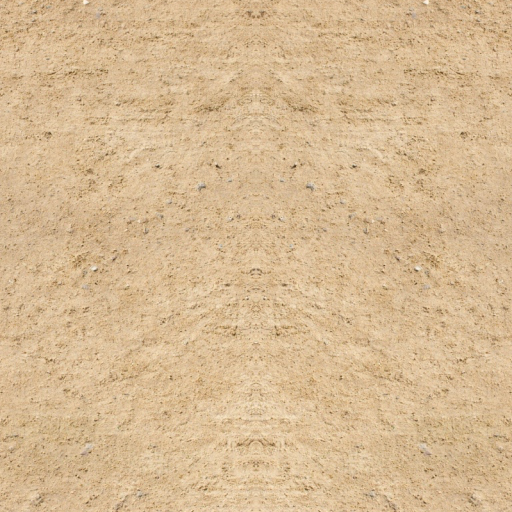
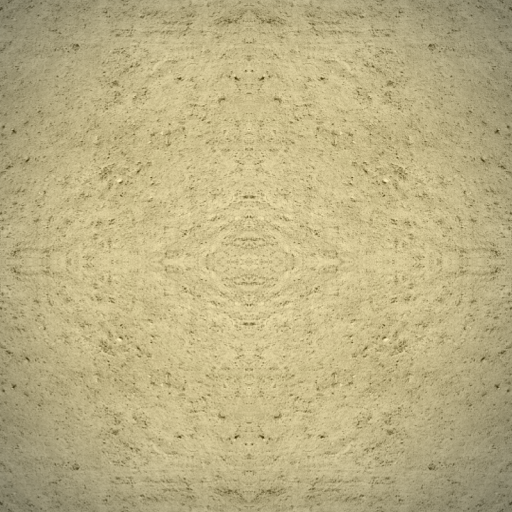
Background and cube texture

diff --git a/Cubic-The-Game/Cubic-The-Game/GameObjects/CubeSegment.cs b/Cubic-The-Game/Cubic-The-Game/GameObjects/CubeSegment.cs
@@ -128,22 +128,22 @@ namespace Cubic_The_Game
             float segWidth = numSquaresAcross* squareWidth/2;
             
             //top Cap
-            VertexPositionColor[] top = new VertexPositionColor[4];
-            top[0] = new VertexPositionColor(new Vector3(segWidth, 0, -segWidth), color);
-            top[1] = new VertexPositionColor(new Vector3(segWidth, 0, segWidth), color);
-            top[2] = new VertexPositionColor(new Vector3(-segWidth, 0, -segWidth), color);
-            top[3] = new VertexPositionColor(new Vector3(-segWidth, 0, segWidth), color);
-            topBuff = new VertexBuffer(device, typeof(VertexPositionColor), top.Length, BufferUsage.WriteOnly);
-            topBuff.SetData<VertexPositionColor>(top);
+            VertexPositionColorTexture[] top = new VertexPositionColorTexture[4];
+            top[0] = new VertexPositionColorTexture(new Vector3(segWidth, 0, -segWidth), color, new Vector2(0,0));
+            top[1] = new VertexPositionColorTexture(new Vector3(segWidth, 0, segWidth), color, new Vector2(1,0));
+            top[2] = new VertexPositionColorTexture(new Vector3(-segWidth, 0, -segWidth), color, new Vector2(0,1));
+            top[3] = new VertexPositionColorTexture(new Vector3(-segWidth, 0, segWidth), color, new Vector2(1,1));
+            topBuff = new VertexBuffer(device, typeof(VertexPositionColorTexture), top.Length, BufferUsage.WriteOnly);
+            topBuff.SetData<VertexPositionColorTexture>(top);
 
             //bottom Cap
-            VertexPositionColor[] bottom = new VertexPositionColor[4];
-            bottom[0] = new VertexPositionColor(new Vector3(segWidth, -squareWidth, segWidth), color);
-            bottom[1] = new VertexPositionColor(new Vector3(segWidth, -squareWidth, -segWidth), color);
-            bottom[2] = new VertexPositionColor(new Vector3(-segWidth, -squareWidth, segWidth), color);
-            bottom[3] = new VertexPositionColor(new Vector3(-segWidth, -squareWidth, -segWidth), color);
-            bottomBuff = new VertexBuffer(device, typeof(VertexPositionColor), bottom.Length, BufferUsage.WriteOnly);
-            bottomBuff.SetData<VertexPositionColor>(bottom);   
+            VertexPositionColorTexture[] bottom = new VertexPositionColorTexture[4];
+            bottom[0] = new VertexPositionColorTexture(new Vector3(segWidth, -squareWidth, segWidth), color, new Vector2(0, 0));
+            bottom[1] = new VertexPositionColorTexture(new Vector3(segWidth, -squareWidth, -segWidth), color, new Vector2(1, 0));
+            bottom[2] = new VertexPositionColorTexture(new Vector3(-segWidth, -squareWidth, segWidth), color, new Vector2(0, 1));
+            bottom[3] = new VertexPositionColorTexture(new Vector3(-segWidth, -squareWidth, -segWidth), color, new Vector2(1, 1));
+            bottomBuff = new VertexBuffer(device, typeof(VertexPositionColorTexture), bottom.Length, BufferUsage.WriteOnly);
+            bottomBuff.SetData<VertexPositionColorTexture>(bottom);   
             
         }
 
@@ -240,6 +240,8 @@ namespace Cubic_The_Game
             //Draw top square
             device.SetVertexBuffer((top) ? topBuff : bottomBuff);
             segmentEffect.DiffuseColor = Color.White.ToVector3();
+            segmentEffect.TextureEnabled = true;
+            segmentEffect.Texture = cubeTex;
 
             //    device.Indices = indexBuff;
             device.RasterizerState = solidRasterizer;
@@ -250,14 +252,14 @@ namespace Cubic_The_Game
                 device.DrawPrimitives(PrimitiveType.TriangleStrip, 0, 2);//+2
             }
 
-            segmentEffect.DiffuseColor = color.ToVector3();
-            device.RasterizerState = wireFrameRasterizer;
-            //   device.RasterizerState.FillMode = FillMode.WireFrame;
-            foreach (EffectPass pass in segmentEffect.CurrentTechnique.Passes)
-            {
-                pass.Apply();
-                device.DrawPrimitives(PrimitiveType.TriangleStrip, 0, 2);//+2
-            }
+            //segmentEffect.DiffuseColor = color.ToVector3();
+            //device.RasterizerState = wireFrameRasterizer;
+            ////   device.RasterizerState.FillMode = FillMode.WireFrame;
+            //foreach (EffectPass pass in segmentEffect.CurrentTechnique.Passes)
+            //{
+            //    pass.Apply();
+            //    device.DrawPrimitives(PrimitiveType.TriangleStrip, 0, 2);//+2
+            //}
             //end top
         }
 

diff --git a/Cubic-The-Game/Cubic-The-Game/GameObjects/MatchPiece.cs b/Cubic-The-Game/Cubic-The-Game/GameObjects/MatchPiece.cs
@@ -22,8 +22,8 @@ namespace Cubic_The_Game
     {
 
         #region constants
-        readonly Color inactiveColor = Color.Black;
-        readonly Color backColor = Color.Gray;
+        readonly Color inactiveColor = new Color(1,14,33); //black
+        readonly Color backColor = Color.White; //gray
         #endregion
 
         #region statics
@@ -74,8 +74,8 @@ namespace Cubic_The_Game
             
             // Render background of Square
             cubeEffect.DiffuseColor = color.ToVector3();
-            cubeEffect.TextureEnabled = false;
-            //cubeEffect.Texture = texture;
+            cubeEffect.TextureEnabled = true;
+            cubeEffect.Texture = cubeTex;
 
             cubeEffect.DiffuseColor = backColor.ToVector3();
             foreach (EffectPass pass in cubeEffect.CurrentTechnique.Passes)
@@ -89,7 +89,7 @@ namespace Cubic_The_Game
             // Render foreground of Square with shape
             cubeEffect.DiffuseColor = color.ToVector3();
             cubeEffect.TextureEnabled = true;
-            //cubeEffect.Texture = texture;
+            cubeEffect.Texture = texture;
 
 
             foreach (EffectPass pass in cubeEffect.CurrentTechnique.Passes)

diff --git a/Cubic-The-Game/Cubic-The-Game/Screens/GameplayScreen.cs b/Cubic-The-Game/Cubic-The-Game/Screens/GameplayScreen.cs
@@ -90,6 +90,7 @@ namespace Cubic_The_Game
             TestCube.device = ScreenManager.GraphicsDevice;
 
             GameObject.device = ScreenManager.GraphicsDevice;
+            GameObject.LoadStaticContent(content);
             GameObject.spriteBatch = ScreenManager.SpriteBatch;
             GameObject.NewGame();
             // Adding player by number, at this point we assume player configurations 1 or 1,2 or 1,2,3,4
@@ -99,7 +100,7 @@ namespace Cubic_The_Game
             
 
             gameFont = content.Load<SpriteFont>("gamefont");
-            GameObject.LoadStaticContent(content);
+            
 
 
             // A real game would probably have more content than this sample, so

diff --git a/Cubic-The-Game/Cubic-The-Game/GameObjects/Abstracts/GameObject.cs b/Cubic-The-Game/Cubic-The-Game/GameObjects/Abstracts/GameObject.cs
@@ -108,7 +108,7 @@ namespace Cubic_The_Game
         public static void LoadStaticContent(ContentManager content)
         {
             Player.texture = content.Load<Texture2D>("playerCursor");
-            backgroundTex = content.Load<Texture2D>("EgyptBG");
+            backgroundTex = content.Load<Texture2D>("game-bg");
             cubeTex = content.Load<Texture2D>("cubeTex");
 
             shapes = new Texture2D[NUMBEROFSHAPES];

diff --git a/Cubic-The-Game/Cubic-The-Game/GameObjects/Abstracts/Piece.cs b/Cubic-The-Game/Cubic-The-Game/GameObjects/Abstracts/Piece.cs
@@ -34,6 +34,9 @@ namespace Cubic_The_Game
             cubeFront = new VertexPositionColorTexture[4];
             for (byte i = 0; i < 4; ++i)
                 cubeFront[i] = new VertexPositionColorTexture(offset + midLen * new Vector3(posCoord[i], 0f), color, textCoord[i]);
+
+            texture = generateTexture();
+
         }
 
         #region constants

diff --git a/Cubic-The-Game/Cubic-The-Game/GameObjects/FallPiece.cs b/Cubic-The-Game/Cubic-The-Game/GameObjects/FallPiece.cs
@@ -41,8 +41,7 @@ namespace Cubic_The_Game
             : base(MIDLEN / 2 * new Vector3(-1f, 1f, 0f), MIDLEN)
         {
             interactingPlayer = -1;
-            center3 = new Vector3(origin,DEPTH);
-            texture = generateTexture();          
+            center3 = new Vector3(origin,DEPTH);   
         }
 
         #region members
